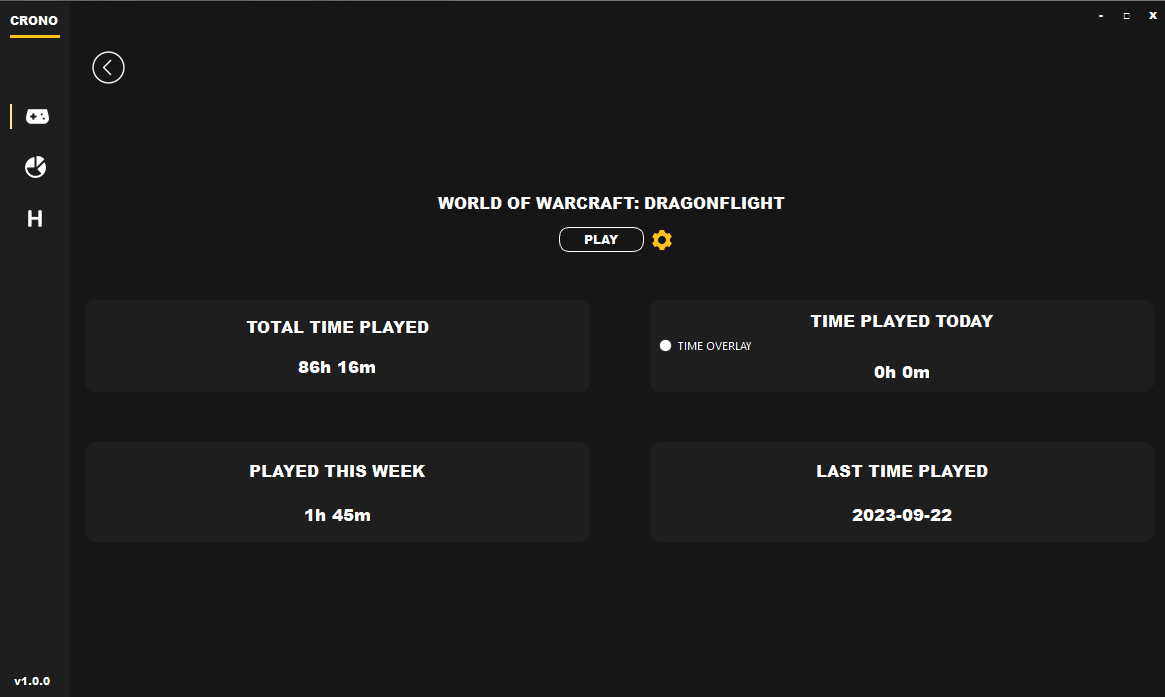
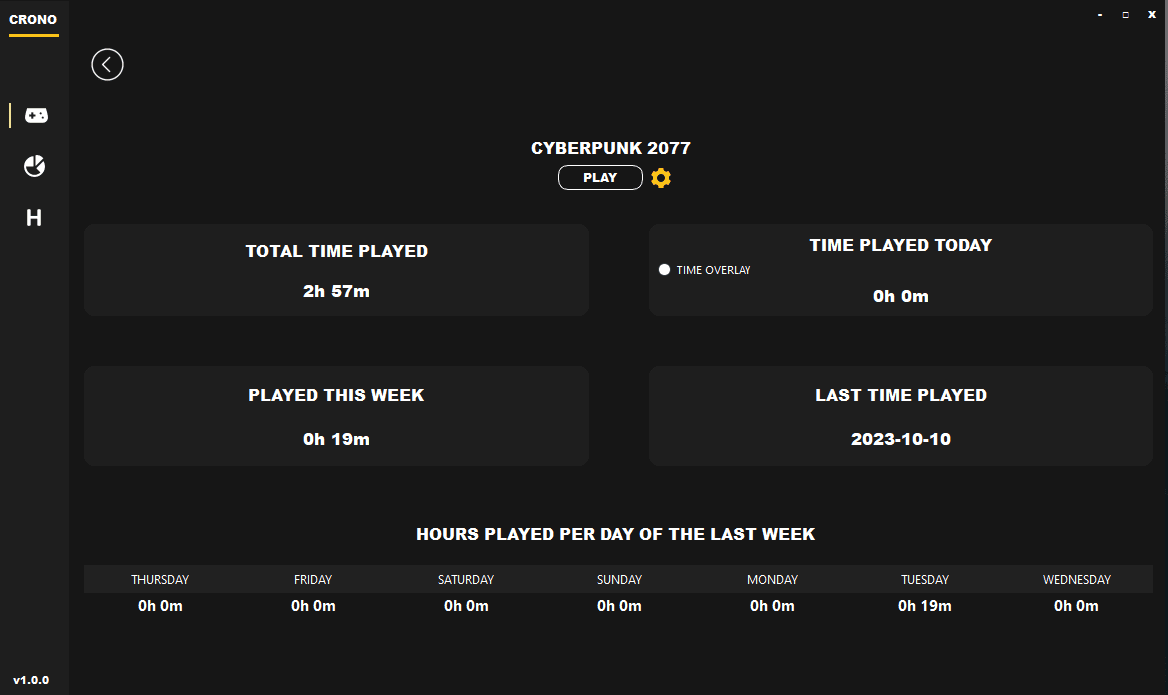
Added font and height to table widgets cells

diff --git a/mainwindow.cpp b/mainwindow.cpp
@@ -410,33 +410,42 @@ void MainWindow::goToGame(QString gameName, int gameId, QString gameExePath, QSt
     ui->tableWidget_2->setEditTriggers(QAbstractItemView::NoEditTriggers);
     ui->tableWidget_2->setShowGrid(false);
 
-
     ui->tableWidget_2->setVerticalScrollMode(QAbstractItemView::ScrollPerPixel);
-
 
     ui->tableWidget_2->setRowCount(1);
     ui->tableWidget_2->scrollToTop();
 
+    // Sets table cell height
+    ui->tableWidget_2->setRowHeight(0, 10);
+
     // Get Hours Played Per Day Of The Last Week Data
-    QVector<DbManager::HoursPlayedPerDayOfTheLastWeekData> dt = db->hoursPlayedPerDayOfTheLastWeek(gameId);
+    QVector<DbManager::HoursPlayedPerDayOfTheLastWeekData> hoursPlayedPerDayOfTheLastWeekResult = db->hoursPlayedPerDayOfTheLastWeek(gameId);
 
     QVector<QString> days;
 
-    for (int var = 0; var < dt.count() ; ++var) {
-        //qDebug() << "---------------- " << dt[var].totalTimePlayed;
+    for (int idx = 0; idx < hoursPlayedPerDayOfTheLastWeekResult.count() ; ++idx) {
+        //qDebug() << "---------------- " << hoursPlayedPerDayOfTheLastWeekResult[var].totalTimePlayed;
 
-        days.push_back(util->dayNumberToWeekDay(dt[var].dayOfWeek));
+        days.push_back(util->dayNumberToWeekDay(hoursPlayedPerDayOfTheLastWeekResult[idx].dayOfWeek));
 
+        QTableWidgetItem* item = new QTableWidgetItem(util->secondsToTime(hoursPlayedPerDayOfTheLastWeekResult[idx].totalTimePlayed));
+        // Create a QFont to set the text style
+        QFont font;
+        font.setBold(true);  // Make the text bold
+        font.setItalic(false);  // Make the text italic
+        font.setUnderline(false);  // Underline the text
+        font.setPointSize(11);  // Set the font size to 14
+        // Set the QFont for the item
+        item->setFont(font);
 
-
-        ui->tableWidget_2->setItem(0, var, new QTableWidgetItem(util->secondsToTime(dt[var].totalTimePlayed)));
-        ui->tableWidget_2->item(0, var)->setTextAlignment(Qt::AlignCenter);
+        ui->tableWidget_2->setItem(0, idx, item);
+        ui->tableWidget_2->item(0, idx)->setTextAlignment(Qt::AlignCenter);
     }
-
 
     // Set horizontal header labels
     QStringList horizontalHeaderLabels;
     horizontalHeaderLabels << days[0] << days[1] << days[2]<< days[3]<< days[4]<< days[5]<< days[6];
+
     ui->tableWidget_2->setHorizontalHeaderLabels(horizontalHeaderLabels);
 
     delete db;

diff --git a/howlongtobeat.cpp b/howlongtobeat.cpp
@@ -186,13 +186,28 @@ void HowLongTobeat::on_btnSearch_clicked()
             // ui->tableWidget->setItem(currentRow, 1, new QTableWidgetItem(jsonArray[var].toObject()["game_name"].toString()));
             // ui->tableWidget->item(currentRow, 1)->setTextAlignment(Qt::AlignCenter);
 
-            ui->tableWidget->setItem(currentRow, 1, new QTableWidgetItem(util->secondsToTime(jsonArray[var].toObject()["comp_main"].toInt())));
+            QTableWidgetItem* comp_main = new QTableWidgetItem(util->secondsToTime(jsonArray[var].toObject()["comp_main"].toInt()));
+            QTableWidgetItem* comp_plus = new QTableWidgetItem(util->secondsToTime(jsonArray[var].toObject()["comp_plus"].toInt()));
+            QTableWidgetItem* comp_100 = new QTableWidgetItem(util->secondsToTime(jsonArray[var].toObject()["comp_100"].toInt()));
+
+            // Create a QFont to set the text style
+            QFont font;
+            font.setBold(true);  // Make the text bold
+            font.setItalic(false);  // Make the text italic
+            font.setUnderline(false);  // Underline the text
+            font.setPointSize(11);  // Set the font size to 14
+            // Set the QFont for the items
+            comp_main->setFont(font);
+            comp_plus->setFont(font);
+            comp_100->setFont(font);
+
+            ui->tableWidget->setItem(currentRow, 1, comp_main);
             ui->tableWidget->item(currentRow, 1)->setTextAlignment(Qt::AlignCenter);
 
-            ui->tableWidget->setItem(currentRow, 2, new QTableWidgetItem(util->secondsToTime(jsonArray[var].toObject()["comp_plus"].toInt())));
+            ui->tableWidget->setItem(currentRow, 2, comp_plus);
             ui->tableWidget->item(currentRow, 2)->setTextAlignment(Qt::AlignCenter);
 
-            ui->tableWidget->setItem(currentRow, 3, new QTableWidgetItem(util->secondsToTime(jsonArray[var].toObject()["comp_100"].toInt())));
+            ui->tableWidget->setItem(currentRow, 3, comp_100);
             ui->tableWidget->item(currentRow, 3)->setTextAlignment(Qt::AlignCenter);
 
             currentRow = currentRow + 1;

diff --git a/util.cpp b/util.cpp
@@ -248,25 +248,25 @@ QString Util::getGameImage(QString gameName)
 QString Util::dayNumberToWeekDay(int day){
     switch (day) {
     case 0:
-        return "Sunday";
+        return "SUNDAY";
         break;
     case 1:
-        return "Monday";
+        return "MONDAY";
         break;
     case 2:
-        return "Tuesday";
+        return "TUESDAY";
         break;
     case 3:
-        return "Wednesday";
+        return "WEDNESDAY";
         break;
     case 4:
-        return "Thursday";
+        return "THURSDAY";
         break;
     case 5:
-        return "Friday";
+        return "FRIDAY";
         break;
     case 6:
-        return "Saturday";
+        return "SATURDAY";
         break;
     default:
         return "NO DAY";
